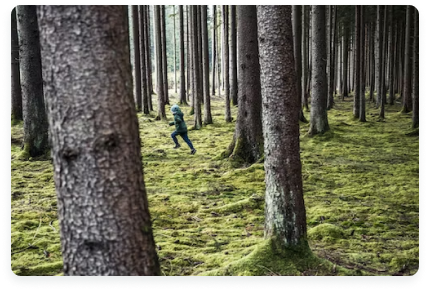
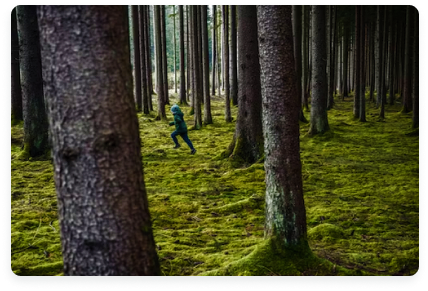
add reseponsive and add img editing

diff --git a/index.html b/index.html
@@ -346,7 +346,7 @@
         <div class="card_berita_terkini">
           <div class="card" style="width: 418px">
             <img
-              src="assets/img/img_berita_terkini/image 8.png"
+              src="assets/img/img_berita_terkini/page-berita-terkini/unsplash_uD4wymJbp7g.png"
               alt=""
               class="card-img-top position-relative"
             />
@@ -408,30 +408,32 @@
         <p>"Ada kecukupan di dunia untuk kebutuhan manusia,<br> tetapi tidak untuk keserakahan manusia."</p>
       </div>
       <div class="konten_hal_6 position-relative">
-        <div class="bulat"></div>
-        <div class="bulat2"></div>
-        <div class="before_after">
-          <img src="assets/img/img_landing_page/image_program_konservasi_1_before.png" alt="">
-          <div class="button_before_after">
-            <button>Before</button>
+        <div class="konten_hal_6_bagian_2">
+          <div class="bulat"></div>
+          <div class="bulat2"></div>
+          <div class="before_after">
+            <img src="assets/img/img_landing_page/image_program_konservasi_1_before.png" alt="">
+            <div class="button_before_after">
+              <button>Before</button>
+            </div>
           </div>
-        </div>
-        <div class="before_after">
-          <img src="assets/img/img_landing_page/image_program_konservasi_1_after.png" alt="">
-          <div class="button_before_after">
-            <button>After</button>
+          <div class="before_after">
+            <img src="assets/img/img_landing_page/image_program_konservasi_1_after.png" alt="">
+            <div class="button_before_after">
+              <button>After</button>
+            </div>
           </div>
-        </div>
-        <div class="before_after">
-          <img src="assets/img/img_landing_page/image_program_konservasi_2_before.png" alt="">
-          <div class="button_before_after">
-            <button>Before</button>
+          <div class="before_after">
+            <img src="assets/img/img_landing_page/image_program_konservasi_2_before.png" alt="">
+            <div class="button_before_after">
+              <button>Before</button>
+            </div>
           </div>
-        </div>
-        <div class="before_after">
-          <img src="assets/img/img_landing_page/image_program_konservasi_2_after.png" alt="">
-          <div class="button_before_after">
-            <button>After</button>
+          <div class="before_after">
+            <img src="assets/img/img_landing_page/image_program_konservasi_2_after.png" alt="">
+            <div class="button_before_after">
+              <button>After</button>
+            </div>
           </div>
         </div>
       </div>

diff --git a/assets/css/style.css b/assets/css/style.css
@@ -687,7 +687,11 @@ body {
 }
 
 .button_hal_4 .button_left_hal_4 {
-  width: 50px; height: 50px; color: #255946; border: none
+  width: 50px; 
+  height: 50px; 
+  color: #255946; 
+  border: none;
+  background-color: #fff;
 }
 .button_hal_4  .button_right_hal_4 {
   width: 50px;
@@ -802,6 +806,7 @@ body {
 .card_berita_terkini img {
   height: 260px;
   border-radius: 15px 15px 0px 0px;
+  object-fit: cover;
 }
 .card_berita_terkini {
   display: grid;
@@ -814,7 +819,7 @@ body {
 .card .tanggal_berita_terkini {
   background-color: #f1cf69;
   color: #255946;
-  bottom: 42%;
+  bottom: 41.9%;
   left: 8%;
   width: 30%;
   font-size: 15px;
@@ -862,7 +867,7 @@ body {
   top: 0;
   left: 0;
   margin-top: -55px;
-  margin-left: 5px;
+    margin-left: -4rem;
 }
 .hal_6 .bulat2 {
   width: 111px;
@@ -874,10 +879,18 @@ body {
   bottom: 0;
   right: 0;
   margin-bottom: -50px;
-  margin-right: 5px;
+  margin-right: -4rem;
 }
 .konten_hal_6 {
-  display: grid;
+  display: flex;
+  justify-content: center;
+  align-items: center;
+}
+
+.konten_hal_6_bagian_2 {
+  position: relative;
+  width: 90%;
+    display: grid;
   grid-template-columns: auto auto;
   justify-content: center;
   align-items: center;

diff --git a/assets/css/reseponsive.css b/assets/css/reseponsive.css
@@ -1,5 +1,13 @@
 @media only screen and (max-width: 1680px) {
-  
+  .button_hal_4 {
+    margin-top: 32%;
+  }
+  .konten_hal_4_bagian_2 .kotak.aktif {
+    margin-left: 4rem;
+  }
+  .konten_hal_4_bagian_2 .kotak.aktif_2 {
+    margin-right: 4rem;
+  }
 }
 @media only screen and (max-width: 1367px) {
   .hal_2 .hal_2_bagian_satu .hal_2_visimisi .btn_visi_misi .btn_1 {

diff --git a/page/page_berita_terkini.html b/page/page_berita_terkini.html
@@ -104,7 +104,7 @@
     <div class="card_berita_terkini">
       <div class="card" style="width: 390px">
         <img
-          src="../assets/img/img_berita_terkini/image 8.png"
+          src="../assets/img/img_berita_terkini/page-berita-terkini/unsplash_uD4wymJbp7g.png"
           alt=""
           class="card-img-top"
         />
